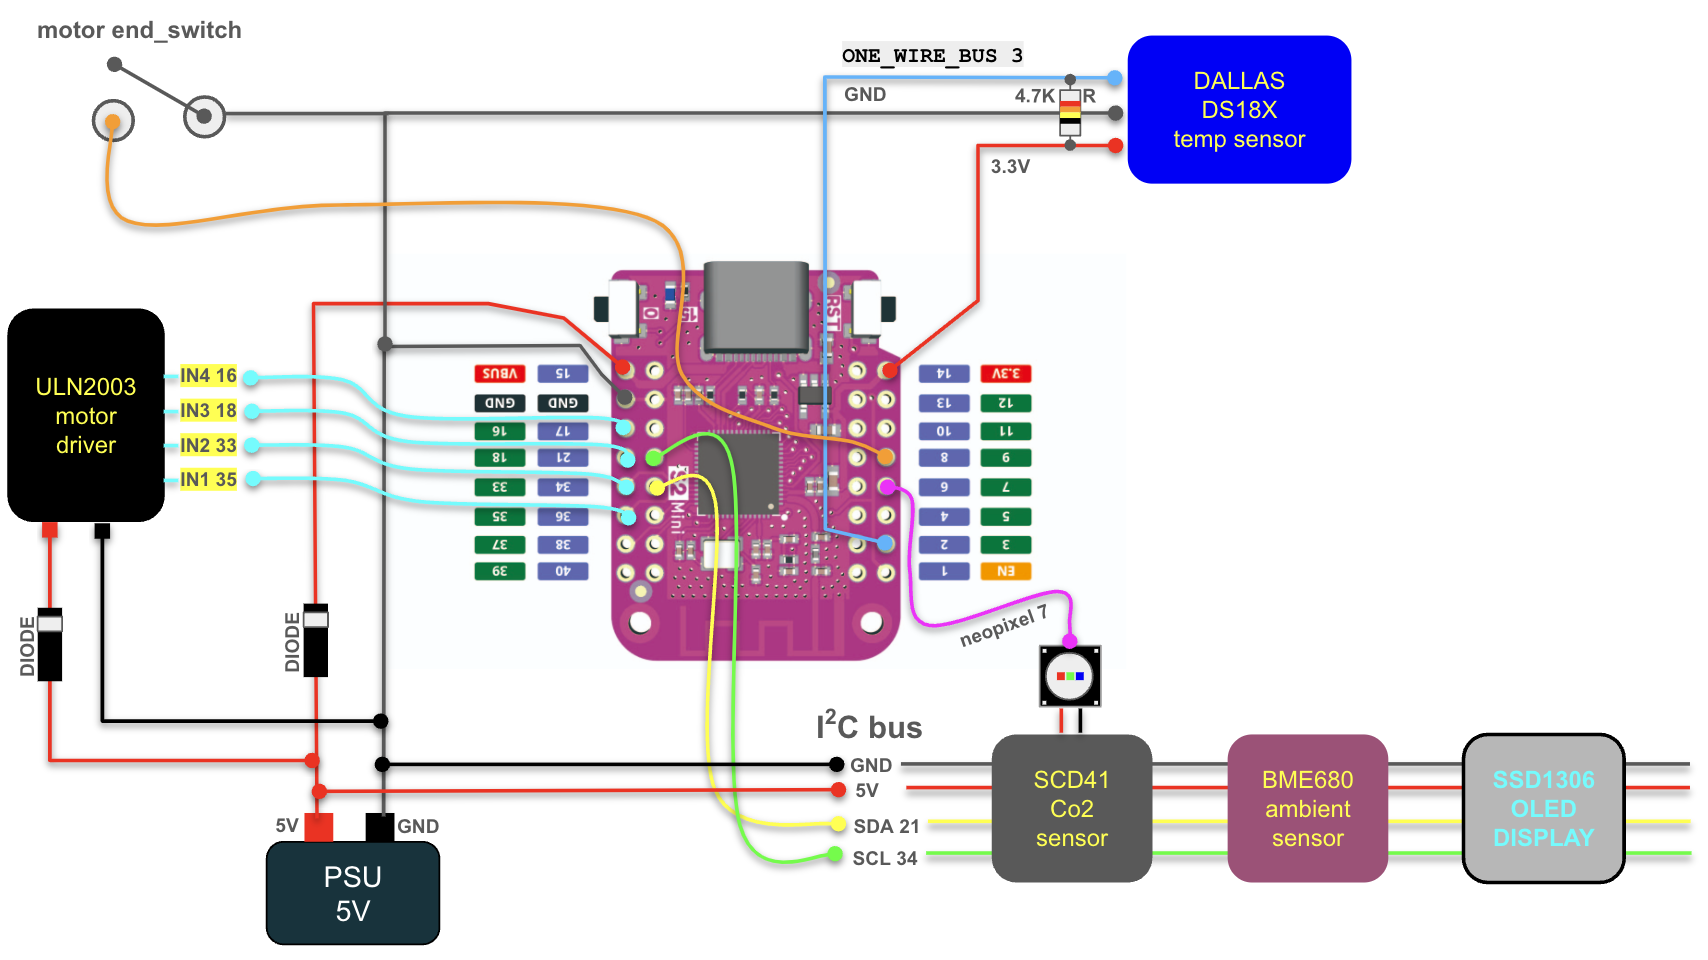
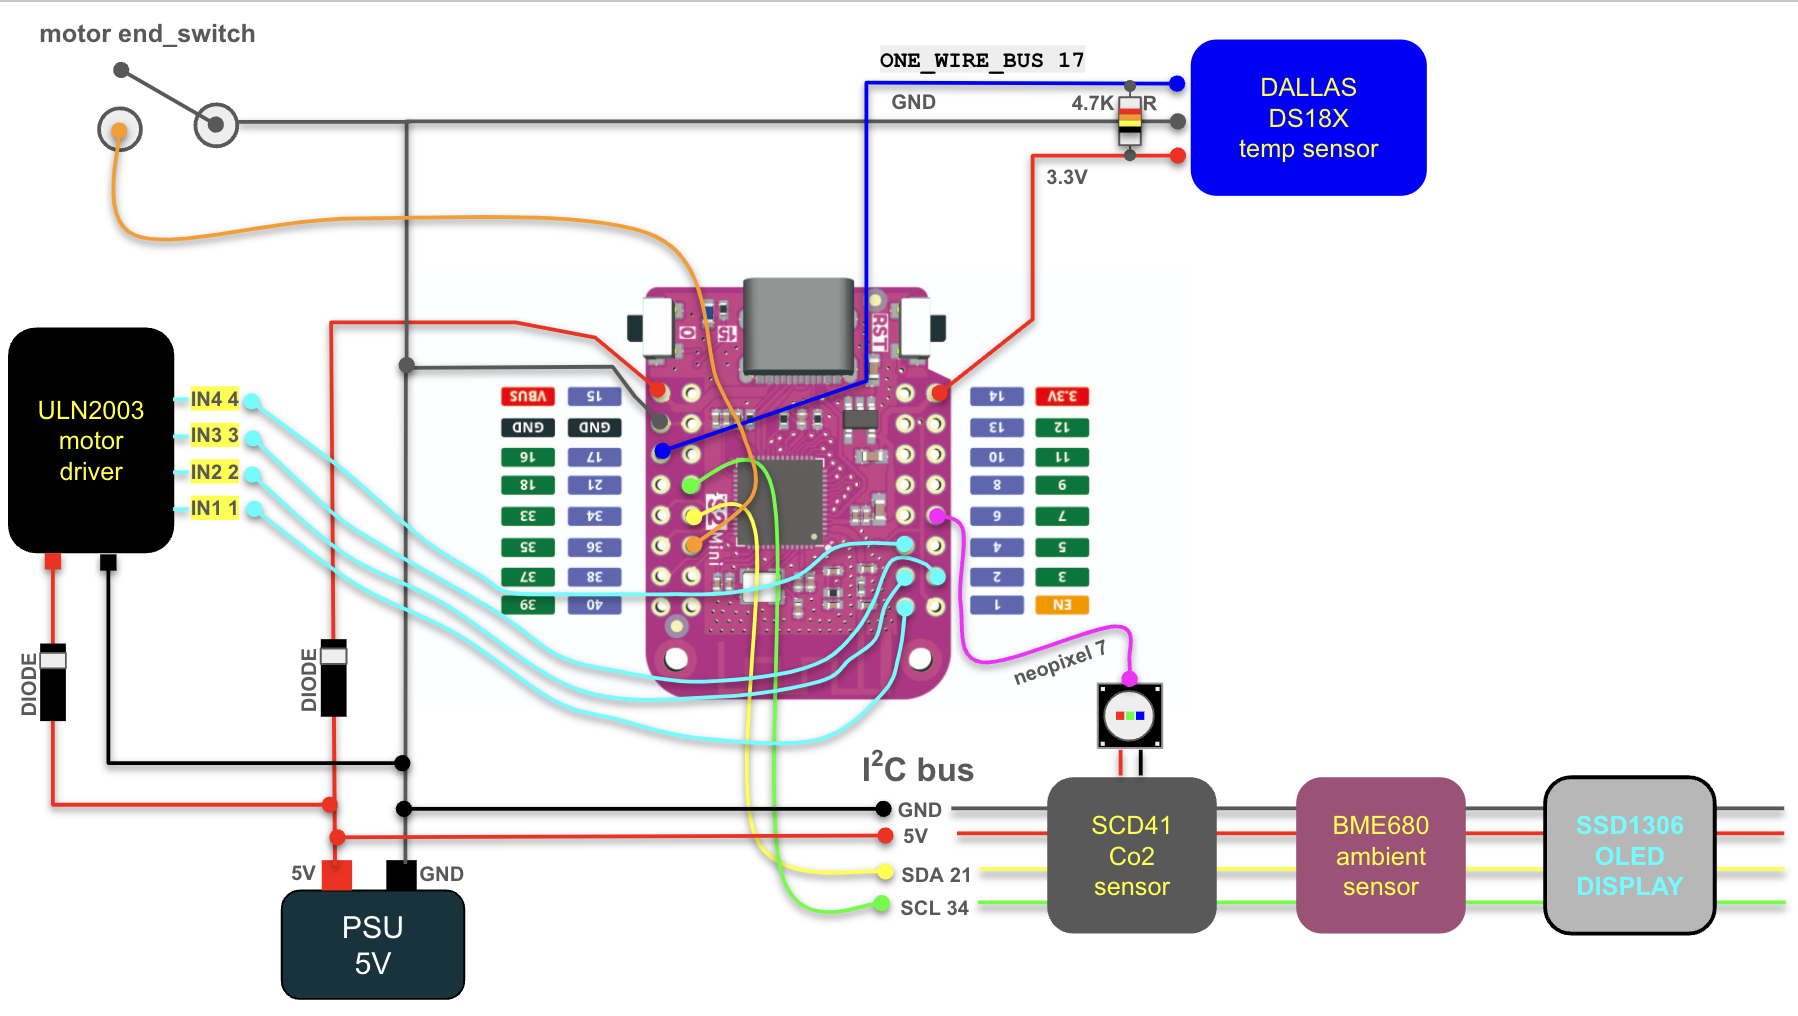
update

diff --git a/COXY-KONTROL/src/main.cpp b/COXY-KONTROL/src/main.cpp
@@ -23,7 +23,7 @@
 #ifdef DALLAS_ 
   #include <DallasTemperature.h>
   #include <OneWire.h>
-  #define ONE_WIRE_BUS 17 // 12 
+  #define ONE_WIRE_BUS 17 // 
   OneWire oneWire(ONE_WIRE_BUS);
   DallasTemperature dallas(&oneWire); // create DS18B20 sensor instance
 #endif
